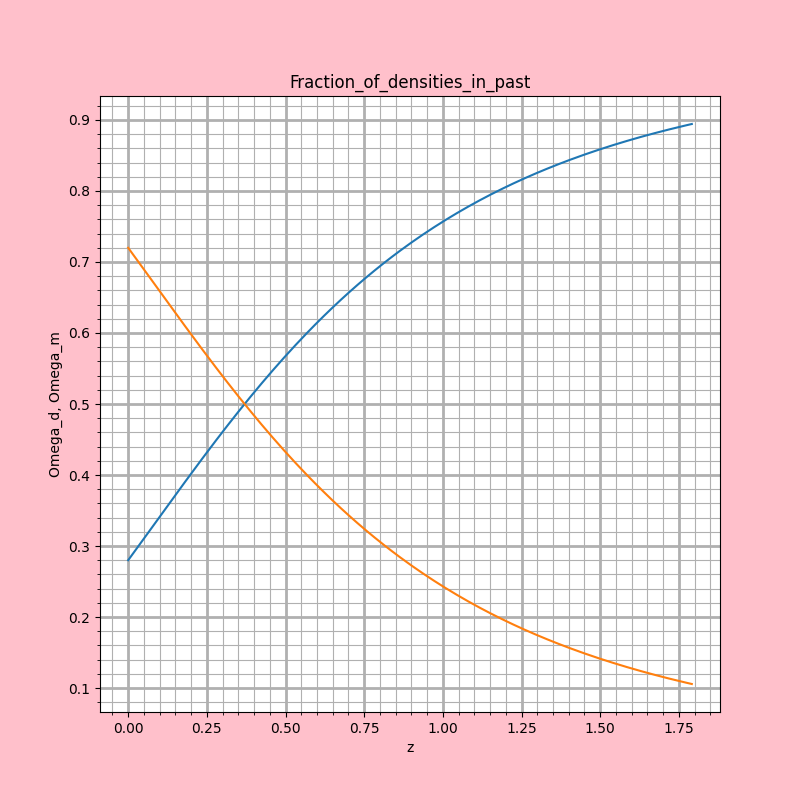
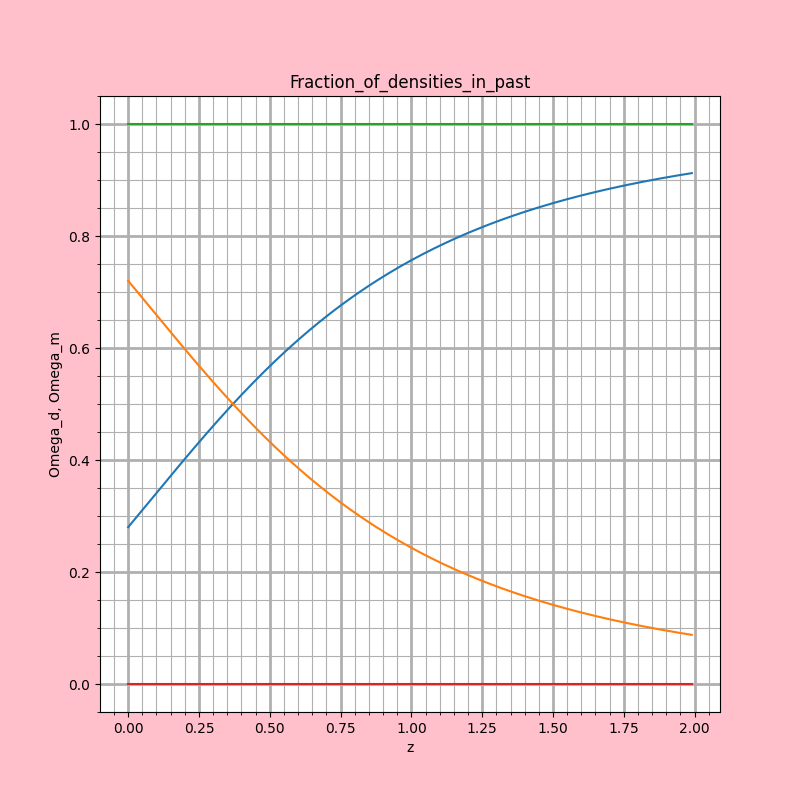
Модуль для сравнения космологических моделей.

Changed region(s): [[0.0938, 0.125, 0.9062, 0.9375]]

diff --git a/modeling_module/physical_problems/cosmology/solver.py b/modeling_module/physical_problems/cosmology/solver.py
@@ -56,17 +56,9 @@ class Task_maker():
         self.plot_diagram_7 = config.task_7
         self.plot_diagram_8 = config.task_8
 
-        self.dark_components = []
-        self.omega_d = []
+        self.cosmological_components = config.cosmological_components
         self.row_SNE = [int(config.row_1),int(config.row_2),int(config.row_3)]
         self.row_Hubble = [int(config.row_4),int(config.row_5),int(config.row_6)]
-
-        if config.dark_components:
-            for compts in config.dark_components:
-                if compts.equation_d:
-                    self.dark_components.append((compts.equation_d))
-                if compts.omega_d:
-                    self.omega_d.append(float(compts.omega_d))
 
 class Cosmology_data():
 
@@ -86,29 +78,35 @@ class Cosmology_data():
 
 class Cosmology_calculus():
 
-    def __init__(self, config, Task, Data_1, Data_2):
-        self.omega_m = float(config.omega_m)
-        self.omega_r = float(config.omega_r)
+    def __init__(self, config, model, Data_1, Data_2):
+
+        self.omega_m = float(model.omega_m)
+        self.omega_r = float(model.omega_r)
+        self.omega_d = float(model.omega_d)
+        self.EOS = sympify(model.equation_d)
+
         self.z_max = float(config.z_max)
         self.t_max = float(config.t_max)/13.6*float(config.H_0)/70
-        self.omega_d = Task.omega_d[0]
+        self.H_0 = float(config.H_0)
+
         self.redshifts_1 = Data_1.z0
         self.redshifts_2 = Data_2.z0
-        self.EOS = sympify(Task.dark_components[0])
-        self.H_0 = float(config.H_0)
 
         self.mu_m = []
         self.H_m = []
+
         self.mu_i = []
         self.H_i = []
-        self.z_i = []
         self.t_i = []
-        self.T_i = []
+        self.z_i = []
+
         self.DA = []
-        self.scale_factor = []
-        self.HUBBLE = []
         self.Omega_d = []
         self.Omega_m = []
+
+        self.T_i = []
+        self.scale_factor = []
+        self.HUBBLE = []
         self.OMEGA_d = []
         self.OMEGA_m = []
 
@@ -184,18 +182,26 @@ class Cosmology_calculus():
             DL[i] = (1+self.redshifts_1[i])*dist[i]
             self.mu_m.append(5*np.log10(DL[i]))
 
-    def visualization(self, Task):
+class Visualization:
+
+    def __init__(self, models):
+
+        self.models = models
+
+
+    def graphics(self, Task):
 
         if Task.plot_diagram_1 == True:
 
             fig = plt.figure(figsize=(8,8), facecolor='pink', frameon=True)
             ax = fig.add_subplot(111)
-            ax.plot(self.z_i,self.mu_i)
-            ax.errorbar(self.redshifts_1,self.mu_o, yerr=self.err_mu, fmt=".")
+            for model in self.models:
+                ax.plot(model.z_i,model.mu_i)
+            ax.errorbar(model.redshifts_1,model.mu_o, yerr=model.err_mu, fmt=".")
             ax.minorticks_on()
-            ax.set_title('SNe_Ia_magnitude_vs_redshift_diagram')
+            ax.set_title('SNe_Ia_magnitude_vs_redshift')
             ax.set_xlabel('z')
-            ax.set_ylabel('apparent_magnitude')
+            ax.set_ylabel('M')
             ax.grid(which='major',linewidth = 2)
             ax.grid(which='minor')
             fig.savefig(path + 'results/SNe_Ia')
@@ -204,8 +210,9 @@ class Cosmology_calculus():
 
             fig2 = plt.figure(figsize=(8,8), facecolor='pink', frameon=True)
             ax2 = fig2.add_subplot(111)
-            ax2.plot(self.z_i,self.H_i)
-            ax2.errorbar(self.redshifts_2,self.H_o, yerr=self.err_H,fmt=".")
+            for model in self.models:
+                ax2.plot(model.z_i,model.H_i)
+            ax2.errorbar(model.redshifts_2,model.H_o,yerr=model.err_H,fmt=".")
             ax2.minorticks_on()
             ax2.set_title('Hubble_parameter_vs_redshift')
             ax2.set_xlabel('z')
@@ -213,12 +220,13 @@ class Cosmology_calculus():
             ax2.grid(which='major',linewidth = 2)
             ax2.grid(which='minor')
             fig2.savefig(path + 'results/H(z)')
-
+        #
         if Task.plot_diagram_3 == True:
 
             fig3 = plt.figure(figsize=(8,8), facecolor='pink', frameon=True)
             ax3 = fig3.add_subplot(111)
-            ax3.plot(self.z_i,self.t_i)
+            for model in self.models:
+                ax3.plot(model.z_i,model.t_i)
             ax3.minorticks_on()
             ax3.set_title('time_vs_redshift')
             ax3.set_xlabel('z')
@@ -226,12 +234,13 @@ class Cosmology_calculus():
             ax3.grid(which='major',linewidth = 2)
             ax3.grid(which='minor')
             fig3.savefig(path + 'results/Backlook_time')
-
+        #
         if Task.plot_diagram_4 == True:
 
             fig5 = plt.figure(figsize=(8,8), facecolor='pink', frameon=True)
             ax5 = fig5.add_subplot(111)
-            ax5.plot(self.T_i,self.scale_factor)
+            for model in self.models:
+                ax5.plot(model.T_i,model.scale_factor)
             ax5.minorticks_on()
             ax5.set_title('scale_factor_in_future')
             ax5.set_xlabel('t, Gyr')
@@ -239,12 +248,13 @@ class Cosmology_calculus():
             ax5.grid(which='major',linewidth = 2)
             ax5.grid(which='minor')
             fig5.savefig(path + 'results/a(t)')
-
+        #
         if Task.plot_diagram_5 == True:
 
             fig4 = plt.figure(figsize=(8,8), facecolor='pink', frameon=True)
             ax4 = fig4.add_subplot(111)
-            ax4.plot(self.T_i,self.HUBBLE)
+            for model in self.models:
+                ax4.plot(model.T_i,model.HUBBLE)
             ax4.minorticks_on()
             ax4.set_title('Hubble_parameter_in_future')
             ax4.set_xlabel('t, Gyr')
@@ -252,13 +262,14 @@ class Cosmology_calculus():
             ax4.grid(which='major',linewidth = 2)
             ax4.grid(which='minor')
             fig4.savefig(path + 'results/H(t)')
-
+        #
         if Task.plot_diagram_6 == True:
 
             fig5 = plt.figure(figsize=(8,8), facecolor='pink', frameon=True)
             ax5 = fig5.add_subplot(111)
-            ax5.plot(self.z_i,self.Omega_d)
-            ax5.plot(self.z_i,self.Omega_m)
+            for model in self.models:
+                ax5.plot(model.z_i,model.Omega_d)
+                ax5.plot(model.z_i,model.Omega_m)
             ax5.minorticks_on()
             ax5.set_title('Fraction_of_densities_in_past')
             ax5.set_xlabel('z')
@@ -266,30 +277,32 @@ class Cosmology_calculus():
             ax5.grid(which='major',linewidth = 2)
             ax5.grid(which='minor')
             fig5.savefig(path + 'results/Omega_in_past')
-
+        #
         if Task.plot_diagram_7 == True:
 
             fig5 = plt.figure(figsize=(8,8), facecolor='pink', frameon=True)
             ax5 = fig5.add_subplot(111)
-            ax5.plot(self.T_i,self.OMEGA_d)
-            ax5.plot(self.T_i,self.OMEGA_m)
+            for model in self.models:
+                ax5.plot(model.T_i,model.OMEGA_d)
+                ax5.plot(model.T_i,model.OMEGA_m)
             ax5.minorticks_on()
-            ax5.set_title('Fraction_of_densities_in_past')
+            ax5.set_title('Fraction_of_densities_in_future')
             ax5.set_xlabel('t, Gyr')
             ax5.set_ylabel('Omega')
             ax5.grid(which='major',linewidth = 2)
             ax5.grid(which='minor')
             fig5.savefig(path + 'results/Omega_in_future')
-
-        if Task.plot_diagram_7 == True:
+        #
+        if Task.plot_diagram_8 == True:
 
             fig4 = plt.figure(figsize=(8,8), facecolor='pink', frameon=True)
             ax4 = fig4.add_subplot(111)
-            ax4.plot(self.z_i,self.DA)
+            for model in self.models:
+                ax4.plot(model.z_i,model.DA)
             ax4.minorticks_on()
             ax4.set_title('Angular_diameter_distance')
             ax4.set_xlabel('z')
-            ax4.set_ylabel('angular_diameter_distance')
+            ax4.set_ylabel('D_A, Mpc')
             ax4.grid(which='major',linewidth = 2)
             ax4.grid(which='minor')
             fig4.savefig(path + 'results/DA(z)')

diff --git a/modeling_module/physical_problems/cosmology/__init__.py b/modeling_module/physical_problems/cosmology/__init__.py
@@ -6,7 +6,7 @@
 
 # Import LOCAL python files with 'GlobalInteraction' object
 # and specifiend models representation of problem solution.
-from solver import Task_maker, Cosmology_data, Cosmology_calculus
+from solver import Task_maker, Cosmology_data, Cosmology_calculus, Visualization
 # This is the main class. It has special name and
 # in your '__init__.py' file it MUST have same name
 # and same methods.
@@ -22,19 +22,26 @@ class Model:
 
 		self.Task = Task_maker(config)
 		# saving current problem model with incomming parameters
-
+		self.models = []
+		self.models_1 = []
 		self.model_SNE = Cosmology_data(self.Task.name_SNE, self.Task.row_SNE)
 		self.model_H = Cosmology_data(self.Task.name_Hubble, self.Task.row_Hubble)
 		self.model_SNE.Data_loader()
 		self.model_H.Data_loader()
-		self.calculations = Cosmology_calculus(config, self.Task, self.model_SNE, self.model_H)
+		for model in self.Task.cosmological_components:
+			self.models.append(Cosmology_calculus(config, model, self.model_SNE, self.model_H))
 
 	# run method
 	# must ALWAYS return path to rendered file
 	def run(self):
-		self.calculations.mu_diagram()
-		self.calculations.integration()
-		self.calculations.visualization(self.Task)
+		for model in self.models:
+			model.mu_diagram()
+			model.integration()
+			self.models_1.append(model)
+
+		self.GRAPH = Visualization(self.models_1)
+
+		self.GRAPH.graphics(self.Task)
 
 		# render file and return path
 		return 1

diff --git a/README.md b/README.md
@@ -121,7 +121,6 @@ These web pages can help you:<br>
 $ sudo ./scripts/boot/server.sh [args]
 # Acshelly we use this:
 $ sudo ./scripts/boot/server.sh up --build
-```
 
 <br>
 
